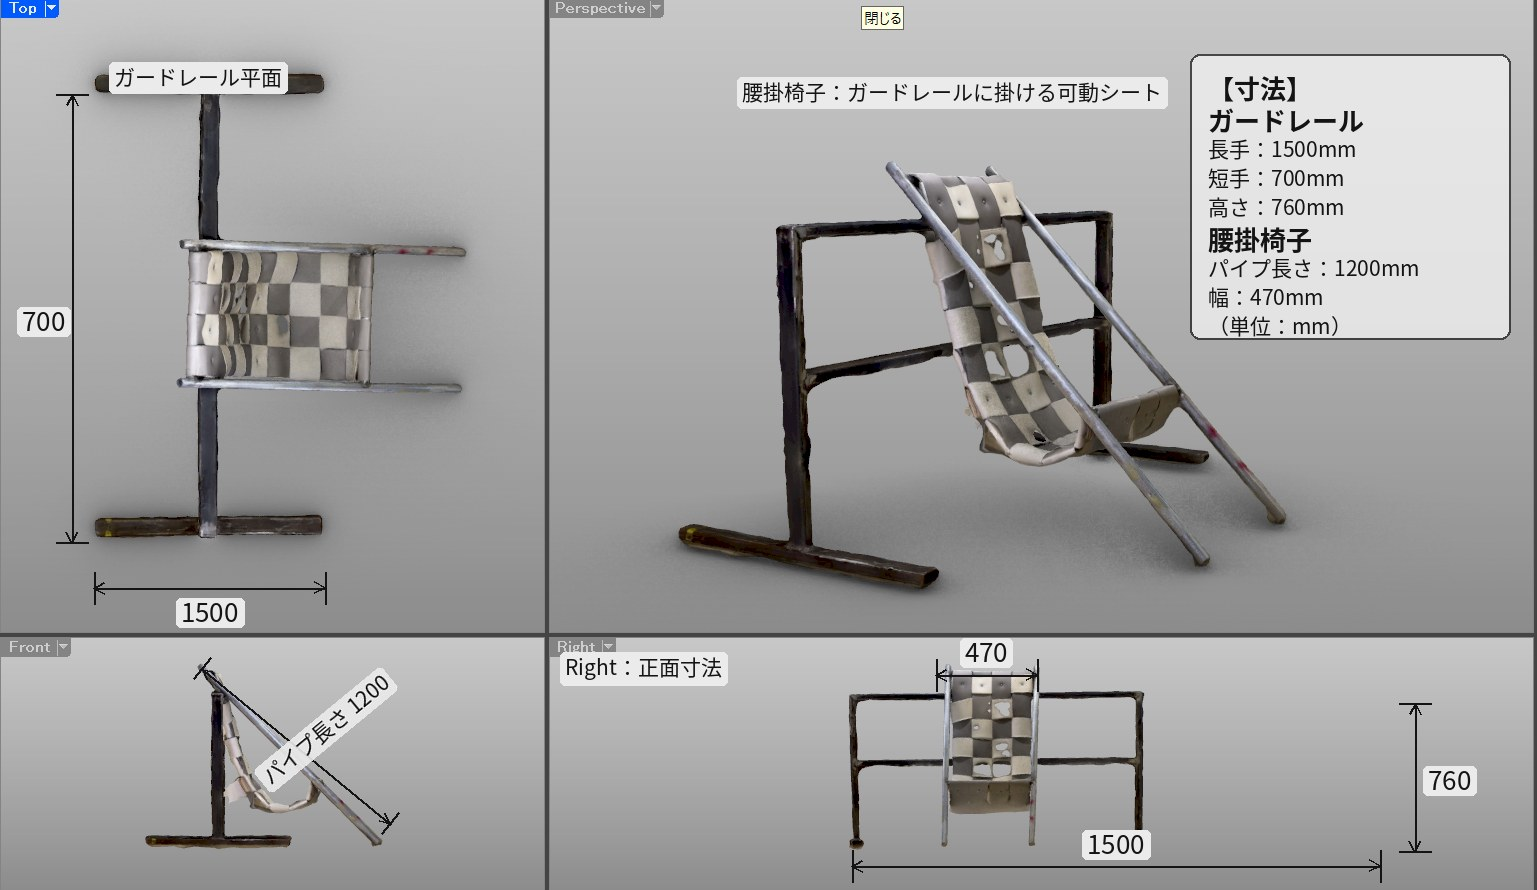
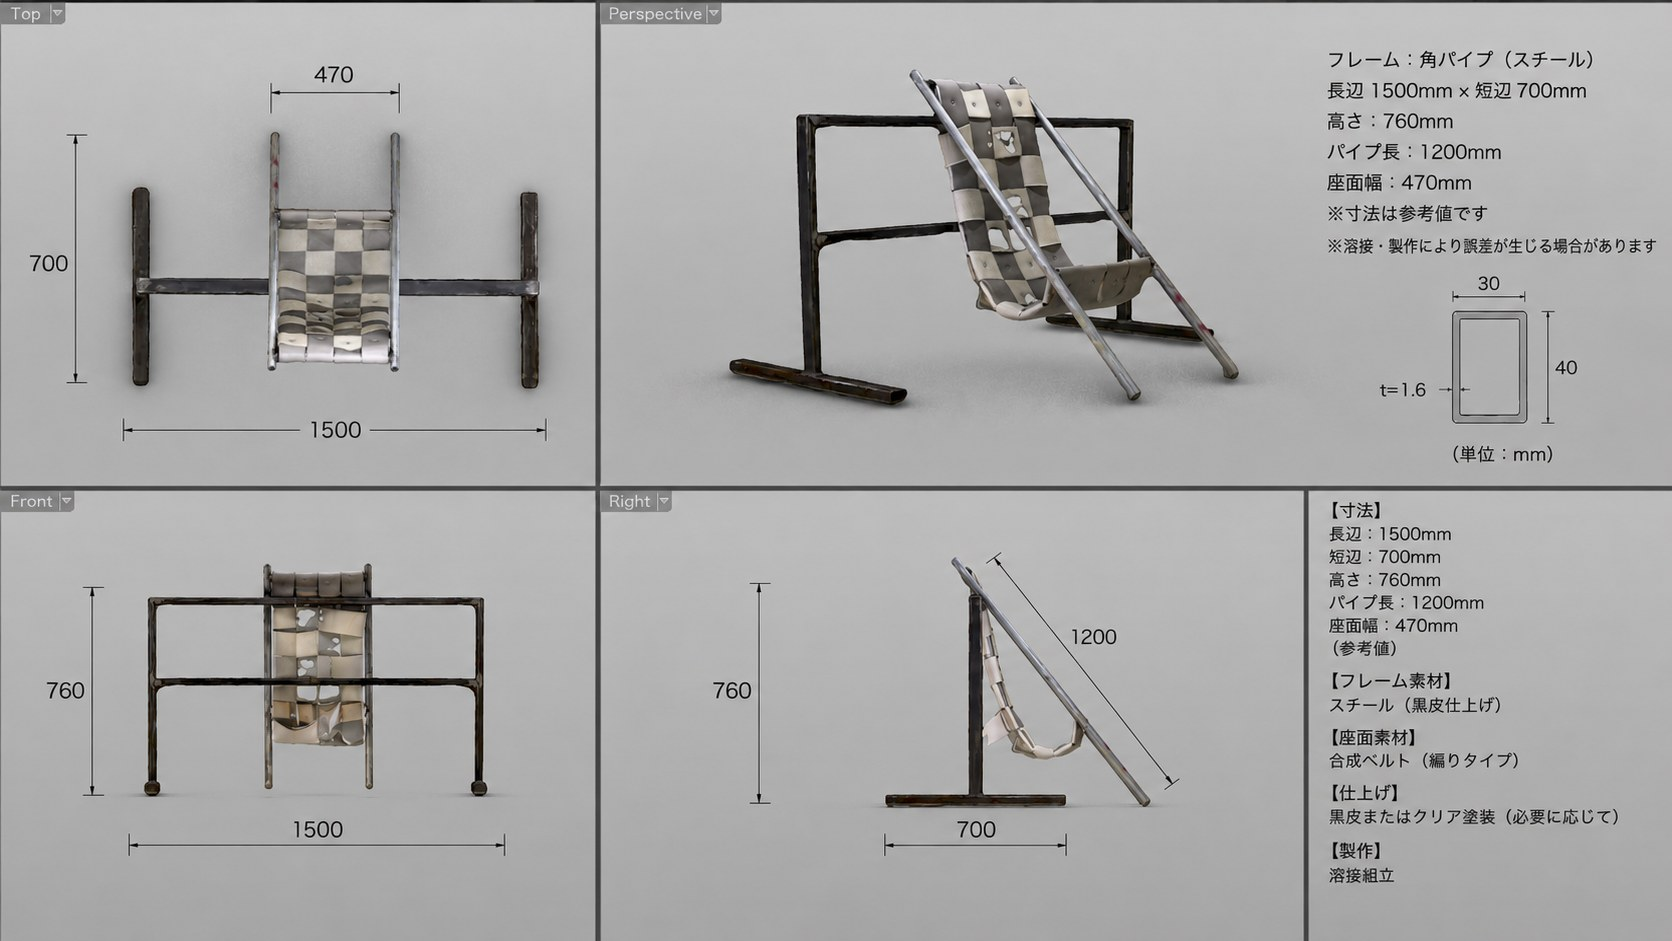
Fix work 2 images and replace work 3 image

diff --git a/style.css b/style.css
@@ -1900,7 +1900,12 @@ body.presentation .hero-title h1 { font-size: clamp(72px, 14vw, 240px); }
 .work-figure--detail {
   margin-top: 14px;
 }
-.work-figure--detail img { max-height: 360px; object-fit: cover; }
+.work-figure--detail img {
+  max-height: 460px;
+  object-fit: contain;
+  background: #050506;
+  margin: 0 auto;
+}
 
 .work-image-pending {
   aspect-ratio: 4 / 3;